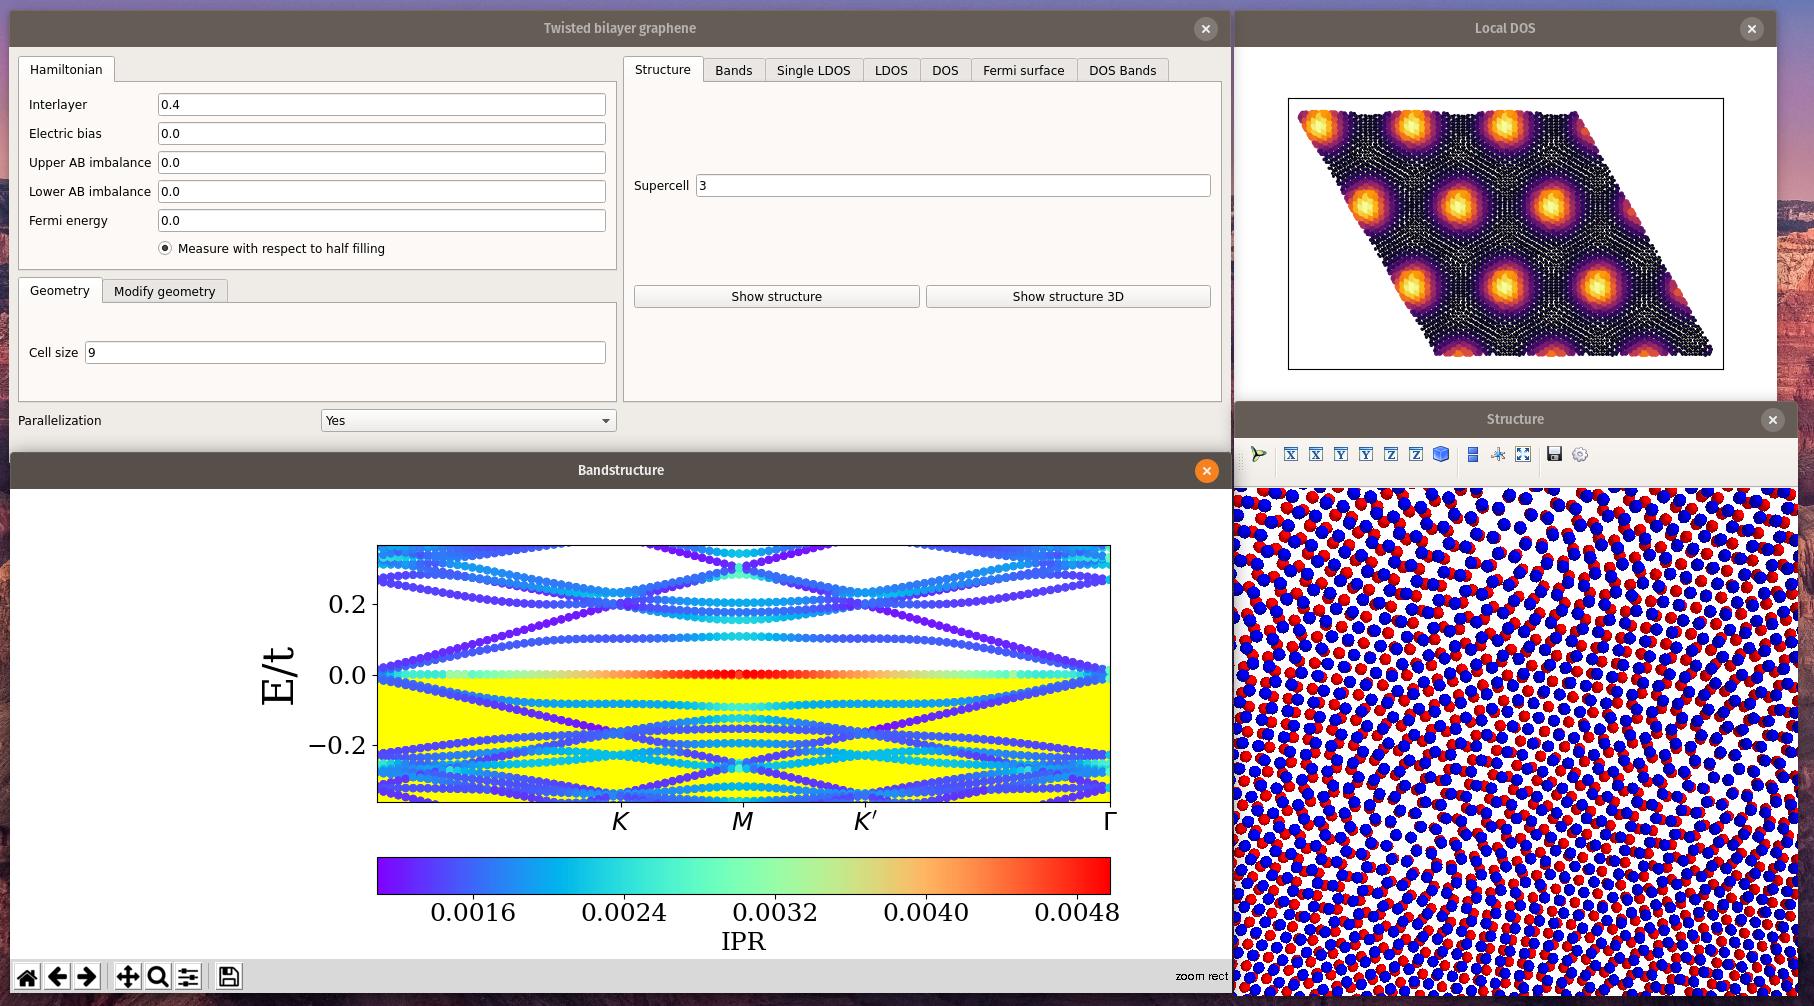
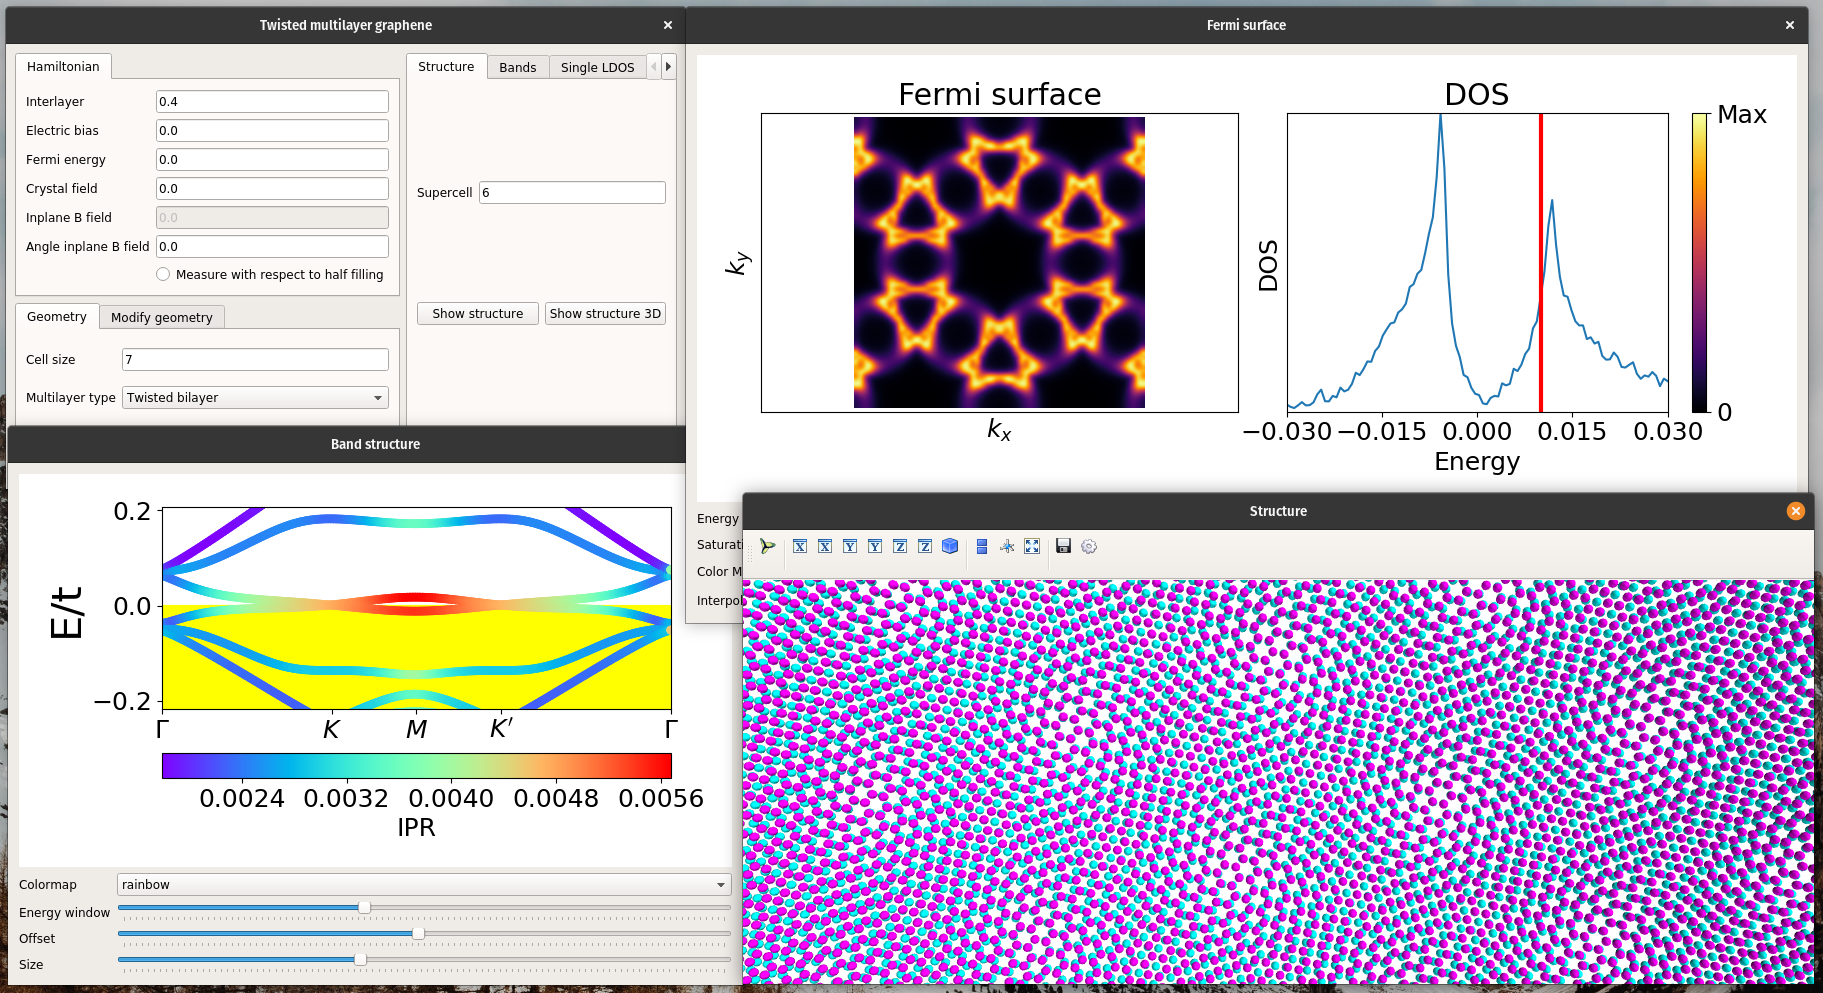
Update

diff --git a/README.md b/README.md
@@ -187,7 +187,7 @@ Band structure of Bernal stacked bilayer graphene, showing the emergence of a ga
 
 
 ## Twisted bilayer graphene ##
-Bandstructure and local density of states of twisted bilayer graphene at the magic angle, showing the emergence of a flat band, with an associated triangular density of states
+Bandstructure and Fermi surface of a twisted graphene bilayer, showing the emergence of nearly flat bands
 https://journals.aps.org/prb/abstract/10.1103/PhysRevB.82.121407
 ![Alt text](screenshots/tbg.png?raw=true "Magic angle twisted bilayer graphene")
 
